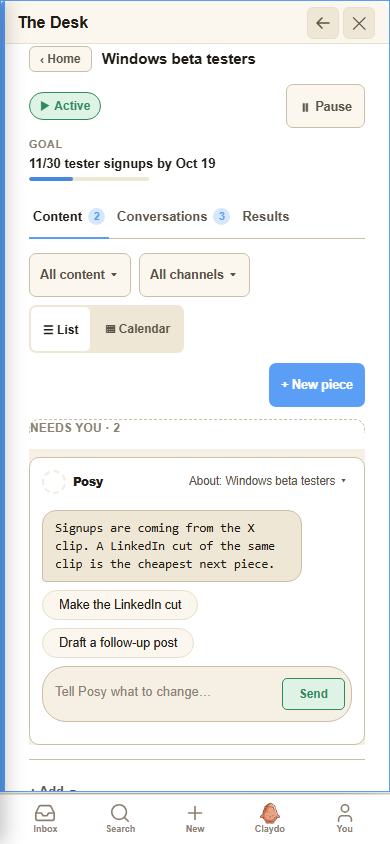
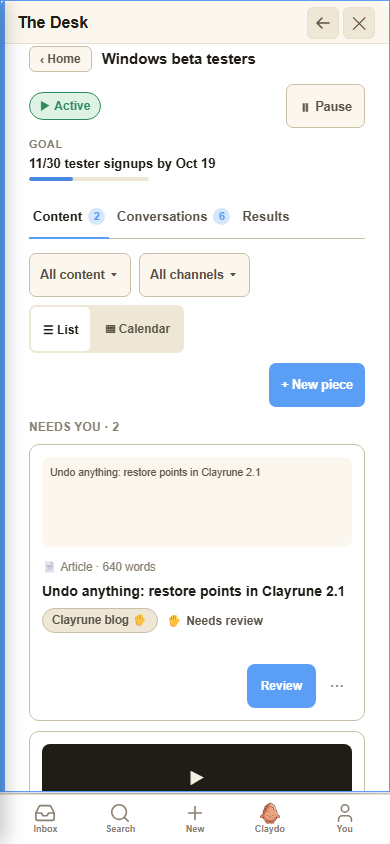
Desk v1 T2a: Dave's review pass 2/4 - Posy font, phone docking, screenshots
- desk-v1.css: scoped .agent-line body-font rule at the Desk v1 root so
  every surface (Posy box, T7 Results read) drops monospace, not just T2a's
  own copy of it. Phone (§11): Posy message/chips docking rule fixed so
  only the composer docks - the message and chips stay in flow, restoring
  the first content card to visibility at 390x844 (was fully covered).
- desk-v1-harness.mjs: campaign-name assertion now resolves the fixture by
  its rendered goal text / data-campaign-id instead of the summary slot
  T2a moved the name out of (design matches 12a - name lives in the crumb).
  Added a Desk-scoped .agent-line font-family assertion (not monospace).
- desk-v1-campaign.mjs: added phone assertion that the first NEEDS YOU
  content card is visible above the fold at 390px.
- Recaptured both screenshots; visually confirmed against 12a: no dashed
  list outline, Posy body font, first card visible on phone.

Changed region(s): [[0.0615, 0.6161, 0.9538, 0.955], [0.0615, 0.4929, 0.9538, 0.5853]]

diff --git a/static/css/desk-v1.css b/static/css/desk-v1.css
@@ -8,6 +8,12 @@
   display: flex; flex-direction: column; height: 100%;
   padding: 0 24px 20px 28px;
 }
+/* app.css's .agent-line is styled for terminal-style agent transcripts
+   (JetBrains Mono) — everywhere the Desk reuses it (kit's Posy box, T7's
+   Results read, any future caller) it's product copy, not a log line (12a:
+   body font). One rule at the Desk v1 root instead of patching each
+   surface — Dave's review, T2a pass 2/4. */
+.desk-v1-shell .agent-line { font-family: 'Inter', -apple-system, system-ui, sans-serif; }
 .desk-v1-crumb {
   display: flex; align-items: center; gap: 10px;
   padding: 2px 0 12px 0; flex: 0 0 auto;
@@ -88,18 +94,6 @@
 @media (max-width: 960px) {
   .desk-v1-camp-main { flex-direction: column; }
   .desk-v1-camp-rightcol { flex: 0 0 auto; }
-  /* §11 phone: "summary collapses to name + goal line + state" — name
-     already lives in the crumb (not duplicated here per the comment above
-     _ruleChips), so drop the Channels/Rules groups and keep state+goal. */
-  .desk-v1-camp-summary-group[data-summary-group="channels"],
-  .desk-v1-camp-summary-group[data-summary-group="rules"] { display: none; }
-  /* §11 phone: "the Posy box becomes a composer docked at the bottom" —
-     pin it to the bottom of the page's own scroll (T0a's body
-     overflow-y:auto), same sticky-in-flow pattern as .desk-v1-review-actions,
-     rather than a page-level fixed overlay that would have to know the
-     shell's bottom tab bar height (that bar lives outside this ticket's
-     files). */
-  .desk-v1-camp-rightcol { position: sticky; bottom: 0; z-index: 5; background: var(--bg); padding-top: 8px; }
 }
 
 /* ── T0b: shared kit (vocabulary, state label, channel badge, toast+Undo,
@@ -168,10 +162,6 @@
 }
 .desk-v1-posy-scope:hover { color: var(--accent); }
 .desk-v1-posy-output { min-height: 0; padding: 0; background: transparent; }
-/* app.css's .agent-line is styled for terminal-style agent transcripts
-   (JetBrains Mono) — Posy is product copy, not a log line (12a: body
-   font). Scoped to this wrapper only; every Desk v1 Posy box shares it. */
-.desk-v1-posy-output .agent-line { font-family: 'Inter', -apple-system, system-ui, sans-serif; }
 .desk-v1-posy-chips { margin: 0; }
 
 /* compact:true (frame 12b) — no avatar/name to push away from, so the scope
@@ -582,6 +572,33 @@
   .desk-v1-camp-tab, .desk-v1-camp-filter-btn, .desk-v1-camp-newpiece, .desk-v1-camp-card-primary,
   .desk-v1-camp-card-morebtn, .desk-v1-camp-rules-edit, .desk-v1-camp-group-show, .desk-v1-camp-pause-btn,
   .desk-v1-camp-viewtoggle button, .desk-v1-camp-addtray-summary { min-height: 44px; }
+
+  /* §11 phone: "summary collapses to name + goal line + state" — name
+     already lives in the crumb (not duplicated here per the comment above
+     _ruleChips), so drop the Channels/Rules groups and keep state+goal. */
+  .desk-v1-camp-summary-group[data-summary-group="channels"],
+  .desk-v1-camp-summary-group[data-summary-group="rules"] { display: none; }
+
+  /* T0a's own phone rule (top of file) makes .desk-v1-camp-main a column
+     flex box, but leaves BOTH children flex:1 1 auto (tabbody) / 0 0 auto
+     (rightcol) fighting over one fixed-height box — rightcol's full Posy
+     card (message+chips+input) is tall enough to squeeze tabbody down to a
+     sliver with its OWN overflow-y:auto scrollport, so the first content
+     card renders far below what that sliver can show (Dave's review: no
+     card visible at 390x844). Same fix class as T1's .desk-v1-home-main
+     (see that block's comment): let this item take its natural height and
+     let the page's own overflow-y:auto (T0a) do the one, real scroll.
+     Ticket-local override — the T0a block above is untouched. */
+  .desk-v1-camp-main { flex: 0 0 auto; overflow: visible; }
+  .desk-v1-camp-tabbody { flex: 0 0 auto; overflow-y: visible; }
+
+  /* §11: "the Posy box becomes a composer docked at the bottom" — only
+     the input row pins to the viewport; the message + chips stay in flow
+     (right after the content list) so they never cover a card. */
+  .desk-v1-camp-rightcol .agent-input-row {
+    position: sticky; bottom: 0; z-index: 5; background: var(--bg);
+    padding: 8px 0 2px; margin-top: 8px;
+  }
 }
 
 /* ── T2b: Proposed state, Start sheet, rules popover, Posy instructions ─── */
